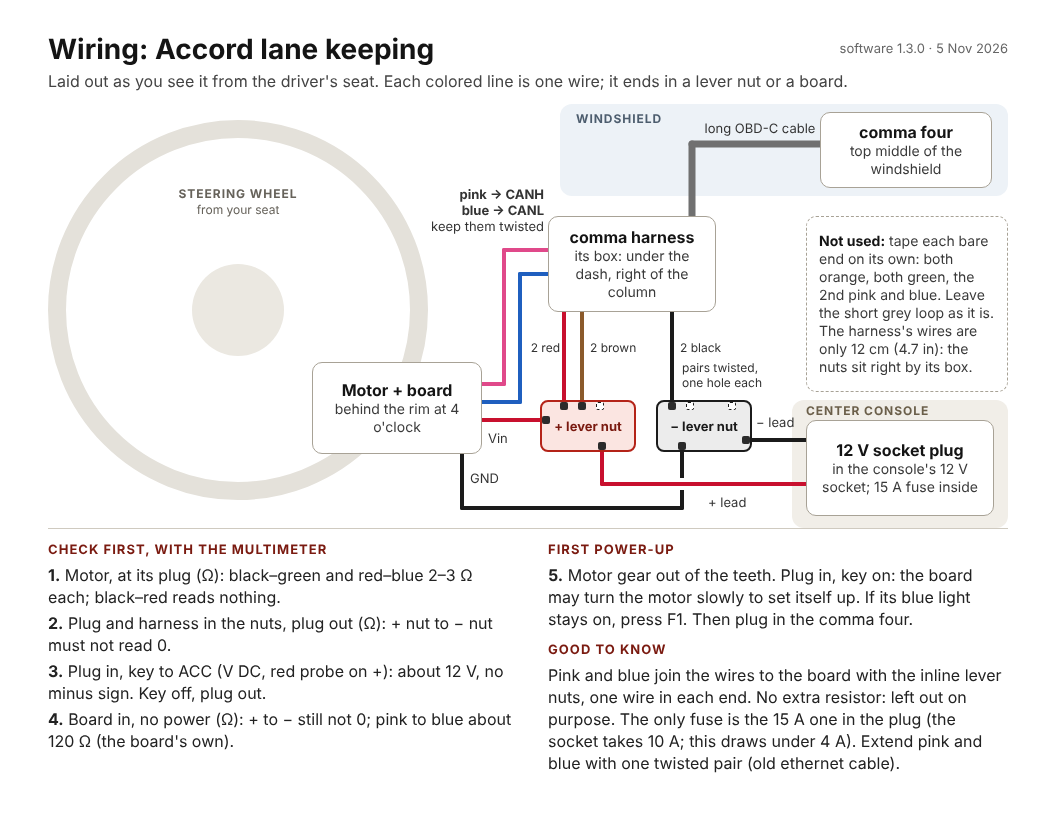
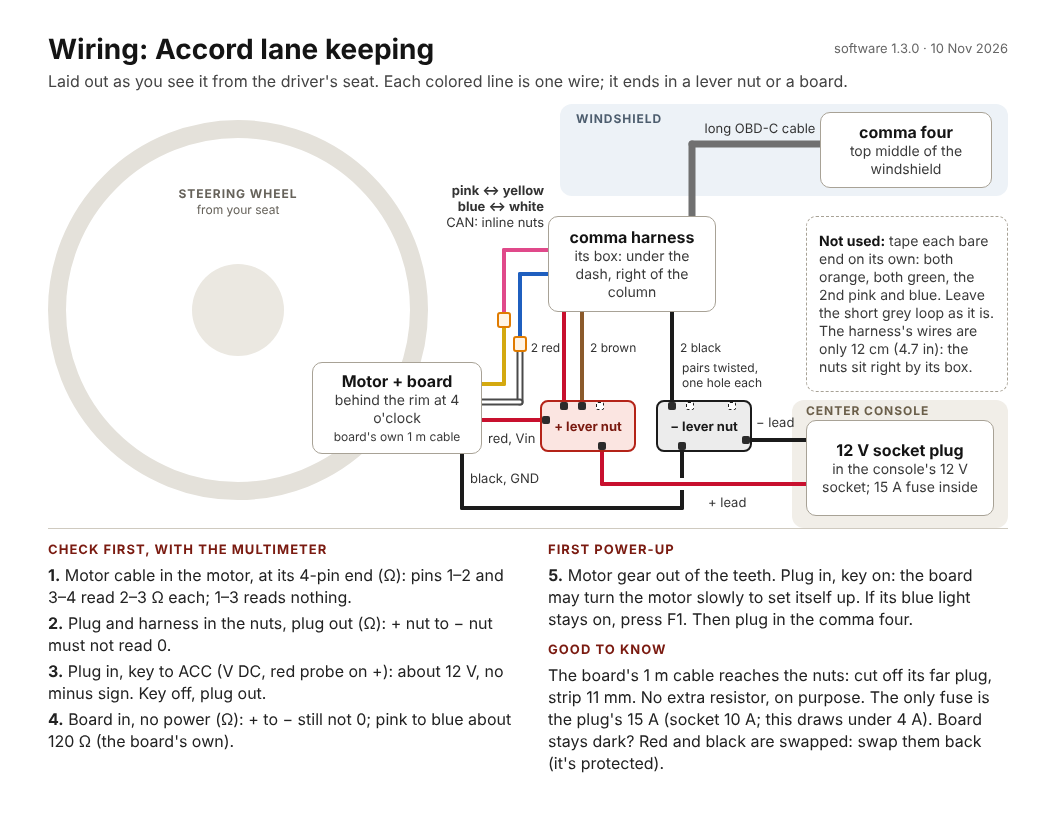
Board plugs and motor socket in the CAD; wiring with the board's own cable; README status and steps
All 8391 checks pass with the motor's plug along the column and the board's
plugs in. Wiring page v8. README: status, to-do, board onto the motor, bench
power-up.

Claude-Session: https://claude.ai/code/session_01WuqK7i55vEcsFg9coyXLyu

diff --git a/hardware/wiring/wiring-page-source.dc.html b/hardware/wiring/wiring-page-source.dc.html
@@ -25,16 +25,20 @@ a{color:#1f5fbf}a:hover{color:#163f80}
 <svg width="8" height="94" viewBox="0 0 8 94" preserveAspectRatio="none" style="position: absolute; left: 560px; top: 312px; width: 8px; height: 94px; overflow: visible; fill: none; stroke: #c8102e; stroke-width: 4; stroke-linecap: round; stroke-linejoin: round" aria-hidden="true"><path d="M 4 0 L 4 94"></path></svg>
 <svg width="8" height="94" viewBox="0 0 8 94" preserveAspectRatio="none" style="position: absolute; left: 578px; top: 312px; width: 8px; height: 94px; overflow: visible; fill: none; stroke: #8b5a2b; stroke-width: 4; stroke-linecap: round; stroke-linejoin: round" aria-hidden="true"><path d="M 4 0 L 4 94"></path></svg>
 <svg width="8" height="94" viewBox="0 0 8 94" preserveAspectRatio="none" style="position: absolute; left: 668px; top: 312px; width: 8px; height: 94px; overflow: visible; fill: none; stroke: #1b1b1b; stroke-width: 4; stroke-linecap: round; stroke-linejoin: round" aria-hidden="true"><path d="M 4 0 L 4 94"></path></svg>
-<svg width="8" height="134" viewBox="0 0 8 134" preserveAspectRatio="none" style="position: absolute; left: 500px; top: 250px; width: 8px; height: 134px; overflow: visible; fill: none; stroke: #e0498a; stroke-width: 4; stroke-linecap: round; stroke-linejoin: round" aria-hidden="true"><path d="M 4 0 L 4 134"></path></svg>
-<svg width="8" height="128" viewBox="0 0 8 128" preserveAspectRatio="none" style="position: absolute; left: 516px; top: 274px; width: 8px; height: 128px; overflow: visible; fill: none; stroke: #1f5fbf; stroke-width: 4; stroke-linecap: round; stroke-linejoin: round" aria-hidden="true"><path d="M 4 0 L 4 128"></path></svg>
+<svg width="8" height="64" viewBox="0 0 8 64" preserveAspectRatio="none" style="position: absolute; left: 500px; top: 250px; width: 8px; height: 64px; overflow: visible; fill: none; stroke: #e0498a; stroke-width: 4; stroke-linecap: round; stroke-linejoin: round" aria-hidden="true"><path d="M 4 0 L 4 64"></path></svg>
+<svg width="8" height="58" viewBox="0 0 8 58" preserveAspectRatio="none" style="position: absolute; left: 500px; top: 326px; width: 8px; height: 58px; overflow: visible; fill: none; stroke: #d4a90f; stroke-width: 4; stroke-linecap: round; stroke-linejoin: round" aria-hidden="true"><path d="M 4 0 L 4 58"></path></svg>
+<svg width="8" height="64" viewBox="0 0 8 64" preserveAspectRatio="none" style="position: absolute; left: 516px; top: 274px; width: 8px; height: 64px; overflow: visible; fill: none; stroke: #1f5fbf; stroke-width: 4; stroke-linecap: round; stroke-linejoin: round" aria-hidden="true"><path d="M 4 0 L 4 64"></path></svg>
+<svg width="8" height="52" viewBox="0 0 8 52" preserveAspectRatio="none" style="position: absolute; left: 516px; top: 350px; width: 8px; height: 52px; overflow: visible; fill: none; stroke: #4a4a4a; stroke-width: 7; stroke-linecap: round; stroke-linejoin: round" aria-hidden="true"><path d="M 4 0 L 4 52"></path></svg>
+<svg width="8" height="52" viewBox="0 0 8 52" preserveAspectRatio="none" style="position: absolute; left: 516px; top: 350px; width: 8px; height: 52px; overflow: visible; fill: none; stroke: #ffffff; stroke-width: 3; stroke-linecap: round; stroke-linejoin: round" aria-hidden="true"><path d="M 4 0 L 4 52"></path></svg>
 <svg width="8" height="54" viewBox="0 0 8 54" preserveAspectRatio="none" style="position: absolute; left: 458px; top: 454px; width: 8px; height: 54px; overflow: visible; fill: none; stroke: #1b1b1b; stroke-width: 4; stroke-linecap: round; stroke-linejoin: round" aria-hidden="true"><path d="M 4 0 L 4 54"></path></svg>
 <svg width="8" height="62" viewBox="0 0 8 62" preserveAspectRatio="none" style="position: absolute; left: 678px; top: 446px; width: 8px; height: 62px; overflow: visible; fill: none; stroke: #1b1b1b; stroke-width: 4; stroke-linecap: round; stroke-linejoin: round" aria-hidden="true"><path d="M 4 0 L 4 62"></path></svg>
 <svg width="8" height="38" viewBox="0 0 8 38" preserveAspectRatio="none" style="position: absolute; left: 598px; top: 446px; width: 8px; height: 38px; overflow: visible; fill: none; stroke: #c8102e; stroke-width: 4; stroke-linecap: round; stroke-linejoin: round" aria-hidden="true"><path d="M 4 0 L 4 38"></path></svg>
 <svg width="8" height="72" viewBox="0 0 8 72" preserveAspectRatio="none" style="position: absolute; left: 688px; top: 144px; width: 8px; height: 72px; overflow: visible; fill: none; stroke: #707070; stroke-width: 7; stroke-linecap: round; stroke-linejoin: round" aria-hidden="true"><path d="M 4 0 L 4 72"></path></svg>
 <svg width="44" height="8" viewBox="0 0 44 8" preserveAspectRatio="none" style="position: absolute; left: 504px; top: 246px; width: 44px; height: 8px; overflow: visible; fill: none; stroke: #e0498a; stroke-width: 4; stroke-linecap: round; stroke-linejoin: round" aria-hidden="true"><path d="M 0 4 L 44 4"></path></svg>
-<svg width="22" height="8" viewBox="0 0 22 8" preserveAspectRatio="none" style="position: absolute; left: 482px; top: 380px; width: 22px; height: 8px; overflow: visible; fill: none; stroke: #e0498a; stroke-width: 4; stroke-linecap: round; stroke-linejoin: round" aria-hidden="true"><path d="M 0 4 L 22 4"></path></svg>
+<svg width="22" height="8" viewBox="0 0 22 8" preserveAspectRatio="none" style="position: absolute; left: 482px; top: 380px; width: 22px; height: 8px; overflow: visible; fill: none; stroke: #d4a90f; stroke-width: 4; stroke-linecap: round; stroke-linejoin: round" aria-hidden="true"><path d="M 0 4 L 22 4"></path></svg>
 <svg width="28" height="8" viewBox="0 0 28 8" preserveAspectRatio="none" style="position: absolute; left: 520px; top: 270px; width: 28px; height: 8px; overflow: visible; fill: none; stroke: #1f5fbf; stroke-width: 4; stroke-linecap: round; stroke-linejoin: round" aria-hidden="true"><path d="M 0 4 L 28 4"></path></svg>
-<svg width="38" height="8" viewBox="0 0 38 8" preserveAspectRatio="none" style="position: absolute; left: 482px; top: 398px; width: 38px; height: 8px; overflow: visible; fill: none; stroke: #1f5fbf; stroke-width: 4; stroke-linecap: round; stroke-linejoin: round" aria-hidden="true"><path d="M 0 4 L 38 4"></path></svg>
+<svg width="38" height="8" viewBox="0 0 38 8" preserveAspectRatio="none" style="position: absolute; left: 482px; top: 398px; width: 38px; height: 8px; overflow: visible; fill: none; stroke: #4a4a4a; stroke-width: 7; stroke-linecap: round; stroke-linejoin: round" aria-hidden="true"><path d="M 0 4 L 38 4"></path></svg>
+<svg width="38" height="8" viewBox="0 0 38 8" preserveAspectRatio="none" style="position: absolute; left: 482px; top: 398px; width: 38px; height: 8px; overflow: visible; fill: none; stroke: #ffffff; stroke-width: 3; stroke-linecap: round; stroke-linejoin: round" aria-hidden="true"><path d="M 0 4 L 38 4"></path></svg>
 <svg width="64" height="8" viewBox="0 0 64 8" preserveAspectRatio="none" style="position: absolute; left: 482px; top: 416px; width: 64px; height: 8px; overflow: visible; fill: none; stroke: #c8102e; stroke-width: 4; stroke-linecap: round; stroke-linejoin: round" aria-hidden="true"><path d="M 0 4 L 64 4"></path></svg>
 <svg width="220" height="8" viewBox="0 0 220 8" preserveAspectRatio="none" style="position: absolute; left: 462px; top: 504px; width: 220px; height: 8px; overflow: visible; fill: none; stroke: #1b1b1b; stroke-width: 4; stroke-linecap: round; stroke-linejoin: round" aria-hidden="true"><path d="M 0 4 L 220 4"></path></svg>
 <svg width="60" height="8" viewBox="0 0 60 8" preserveAspectRatio="none" style="position: absolute; left: 746px; top: 436px; width: 60px; height: 8px; overflow: visible; fill: none; stroke: #1b1b1b; stroke-width: 4; stroke-linecap: round; stroke-linejoin: round" aria-hidden="true"><path d="M 0 4 L 60 4"></path></svg>
@@ -45,11 +49,13 @@ a{color:#1f5fbf}a:hover{color:#163f80}
 <div style="position: absolute; left: 820px; top: 112px; width: 172px; height: 76px; box-sizing: border-box; padding: 10px; display: flex; align-items: center; justify-content: center; text-align: center; background: #ffffff; border: 1.5px solid #a8a296; border-radius: 10px; font-size: 14px; line-height: 18px; color: #3a3a3a"><span><b style="font-size: 16px; line-height: 20px; color: #141414">comma four</b><br>top middle of the windshield</span></div>
 <div style="position: absolute; left: 548px; top: 216px; width: 168px; height: 96px; box-sizing: border-box; padding: 10px; display: flex; align-items: center; justify-content: center; text-align: center; background: #ffffff; border: 1.5px solid #a8a296; border-radius: 10px; font-size: 14px; line-height: 18px; color: #3a3a3a"><span><b style="font-size: 16px; line-height: 20px; color: #141414">comma harness</b><br>its box: under the dash, right of the column</span></div>
 <div style="position: absolute; left: 806px; top: 216px; width: 202px; height: 176px; box-sizing: border-box; padding: 10px 12px; display: flex; align-items: center; justify-content: flex-start; text-align: left; background: #ffffff; border: 1.5px dashed #a8a296; border-radius: 10px; font-size: 14px; line-height: 18px; color: #3a3a3a"><span><b style="color: #141414">Not used:</b> tape each bare end on its own: both orange, both green, the 2nd pink and blue. Leave the short grey loop as it is. The harness's wires are only 12&nbsp;cm (4.7&nbsp;in): the nuts sit right by its box.</span></div>
-<div style="position: absolute; left: 312px; top: 362px; width: 170px; height: 92px; box-sizing: border-box; padding: 10px; display: flex; align-items: center; justify-content: center; text-align: center; background: #ffffff; border: 1.5px solid #a8a296; border-radius: 10px; font-size: 14px; line-height: 18px; color: #3a3a3a"><span><b style="font-size: 16px; line-height: 20px; color: #141414">Motor + board</b><br>behind the rim at 4 o'clock</span></div>
+<div style="position: absolute; left: 312px; top: 362px; width: 170px; height: 92px; box-sizing: border-box; padding: 10px; display: flex; align-items: center; justify-content: center; text-align: center; background: #ffffff; border: 1.5px solid #a8a296; border-radius: 10px; font-size: 14px; line-height: 18px; color: #3a3a3a"><span><b style="font-size: 16px; line-height: 20px; color: #141414">Motor + board</b><br>behind the rim at 4 o'clock<br><span style="font-size: 12px; line-height: 15px">board's own 1 m cable</span></span></div>
 <div style="position: absolute; left: 806px; top: 420px; width: 188px; height: 96px; box-sizing: border-box; padding: 10px; display: flex; align-items: center; justify-content: center; text-align: center; background: #ffffff; border: 1.5px solid #a8a296; border-radius: 10px; font-size: 14px; line-height: 18px; color: #3a3a3a"><span><b style="font-size: 16px; line-height: 20px; color: #141414">12&nbsp;V socket plug</b><br>in the console's 12&nbsp;V socket; 15&nbsp;A fuse inside</span></div>
 <div style="position: absolute; left: 540px; top: 400px; width: 96px; height: 52px; box-sizing: border-box; padding: 4px; display: flex; align-items: center; justify-content: center; text-align: center; background: #fbe5e1; border: 2px solid #b42318; border-radius: 8px; font-size: 13px; line-height: 16px; color: #7a1a10"><b>+ lever nut</b></div>
 <div style="position: absolute; left: 656px; top: 400px; width: 96px; height: 52px; box-sizing: border-box; padding: 4px; display: flex; align-items: center; justify-content: center; text-align: center; background: #ececec; border: 2px solid #1b1b1b; border-radius: 8px; font-size: 13px; line-height: 16px; color: #1b1b1b"><b>− lever nut</b></div>
 
+<div style="position: absolute; left: 497px; top: 312px; width: 14px; height: 16px; box-sizing: border-box; background: #fff4e5; border: 2px solid #e07b00; border-radius: 3px"></div>
+<div style="position: absolute; left: 513px; top: 336px; width: 14px; height: 16px; box-sizing: border-box; background: #fff4e5; border: 2px solid #e07b00; border-radius: 3px"></div>
 <div style="position: absolute; left: 560px; top: 402px; width: 8px; height: 8px; background: #2b2b2b; border-radius: 2px"></div>
 <div style="position: absolute; left: 578px; top: 402px; width: 8px; height: 8px; background: #2b2b2b; border-radius: 2px"></div>
 <div style="position: absolute; left: 596px; top: 402px; width: 8px; height: 8px; box-sizing: border-box; background: #ffffff; border: 1.5px dashed #1b1b1b; border-radius: 2px"></div>
@@ -63,19 +69,19 @@ a{color:#1f5fbf}a:hover{color:#163f80}
 
 <div style="position: absolute; left: 48px; top: 32px; font-size: 28px; line-height: 34px; font-weight: 700; color: #141414">Wiring: Accord lane keeping</div>
 <div style="position: absolute; left: 48px; top: 70px; width: 940px; font-size: 16px; line-height: 22px; color: #444444">Laid out as you see it from the driver's seat. Each colored line is one wire; it ends in a lever nut or a board.</div>
-<div style="position: absolute; left: 808px; top: 40px; width: 200px; text-align: right; font-size: 13px; line-height: 16px; color: #666666">software 1.3.0 · 5 Nov 2026</div>
+<div style="position: absolute; left: 808px; top: 40px; width: 200px; text-align: right; font-size: 13px; line-height: 16px; color: #666666">software 1.3.0 · 10 Nov 2026</div>
 <div style="position: absolute; left: 576px; top: 112px; font-size: 12px; line-height: 14px; font-weight: 700; letter-spacing: 0.08em; color: #4d5d6e">WINDSHIELD</div>
 <div style="position: absolute; left: 806px; top: 404px; font-size: 12px; line-height: 14px; font-weight: 700; letter-spacing: 0.08em; color: #6b5f4a">CENTER CONSOLE</div>
 <div style="position: absolute; left: 158px; top: 186px; width: 160px; text-align: center; font-size: 12px; line-height: 16px; color: #66625a"><b style="letter-spacing: 0.08em">STEERING WHEEL</b><br>from your seat</div>
 
 <div style="position: absolute; left: 704px; top: 120px; width: 112px; text-align: center; font-size: 13px; line-height: 16px; color: #333333">long OBD-C cable</div>
-<div style="position: absolute; left: 424px; top: 186px; width: 120px; text-align: right; font-size: 13px; line-height: 16px; color: #333333"><b>pink → CANH</b><br><b>blue → CANL</b><br>keep them twisted</div>
+<div style="position: absolute; left: 404px; top: 182px; width: 140px; text-align: right; font-size: 13px; line-height: 16px; color: #333333"><b>pink ↔ yellow</b><br><b>blue ↔ white</b><br>CAN: inline nuts</div>
 <div style="position: absolute; left: 524px; top: 340px; width: 36px; text-align: right; font-size: 12px; line-height: 15px; color: #333333">2 red</div>
 <div style="position: absolute; left: 590px; top: 340px; width: 72px; font-size: 12px; line-height: 15px; color: #333333">2 brown</div>
 <div style="position: absolute; left: 680px; top: 340px; width: 60px; font-size: 12px; line-height: 15px; color: #333333">2 black</div>
 <div style="position: absolute; left: 682px; top: 360px; width: 96px; font-size: 12px; line-height: 15px; color: #333333">pairs twisted,<br>one hole each</div>
-<div style="position: absolute; left: 488px; top: 430px; width: 40px; font-size: 13px; line-height: 16px; color: #333333">Vin</div>
-<div style="position: absolute; left: 470px; top: 470px; width: 40px; font-size: 13px; line-height: 16px; color: #333333">GND</div>
+<div style="position: absolute; left: 488px; top: 430px; width: 56px; font-size: 13px; line-height: 16px; color: #333333">red, Vin</div>
+<div style="position: absolute; left: 470px; top: 470px; width: 84px; font-size: 13px; line-height: 16px; color: #333333">black, GND</div>
 <div style="position: absolute; left: 708px; top: 494px; width: 60px; font-size: 13px; line-height: 16px; color: #333333">+ lead</div>
 <div style="position: absolute; left: 756px; top: 414px; width: 48px; font-size: 13px; line-height: 16px; color: #333333">− lead</div>
 
@@ -83,7 +89,7 @@ a{color:#1f5fbf}a:hover{color:#163f80}
 
 <div style="position: absolute; left: 48px; top: 540px; width: 464px; display: flex; flex-direction: column; gap: 4px; font-size: 16px; line-height: 22px; color: #222222">
 <div style="font-size: 13px; line-height: 18px; font-weight: 700; letter-spacing: 0.08em; color: #7a1a10; margin-bottom: 2px">CHECK FIRST, WITH THE MULTIMETER</div>
-<div><b>1.</b> Motor, at its plug (Ω): black–green and red–blue 2–3&nbsp;Ω each; black–red reads nothing.</div>
+<div><b>1.</b> Motor cable in the motor, at its 4-pin end (Ω): pins 1–2 and 3–4 read 2–3&nbsp;Ω each; 1–3 reads nothing.</div>
 <div><b>2.</b> Plug and harness in the nuts, plug out (Ω): + nut to − nut must not read 0.</div>
 <div><b>3.</b> Plug in, key to ACC (V DC, red probe on +): about 12&nbsp;V, no minus sign. Key off, plug out.</div>
 <div><b>4.</b> Board in, no power (Ω): + to − still not 0; pink to blue about 120&nbsp;Ω (the board's own).</div>
@@ -93,7 +99,7 @@ a{color:#1f5fbf}a:hover{color:#163f80}
 <div style="font-size: 13px; line-height: 18px; font-weight: 700; letter-spacing: 0.08em; color: #7a1a10; margin-bottom: 2px">FIRST POWER-UP</div>
 <div><b>5.</b> Motor gear out of the teeth. Plug in, key on: the board may turn the motor slowly to set itself up. If its blue light stays on, press F1. Then plug in the comma four.</div>
 <div style="font-size: 13px; line-height: 18px; font-weight: 700; letter-spacing: 0.08em; color: #7a1a10; margin-top: 6px; margin-bottom: 2px">GOOD TO KNOW</div>
-<div>Pink and blue join the wires to the board with the inline lever nuts, one wire in each end. No extra resistor: left out on purpose. The only fuse is the 15&nbsp;A one in the plug (the socket takes 10&nbsp;A; this draws under 4&nbsp;A). Extend pink and blue with one twisted pair (old ethernet cable).</div>
+<div>The board's 1&nbsp;m cable reaches the nuts: cut off its far plug, strip 11&nbsp;mm. No extra resistor, on purpose. The only fuse is the plug's 15&nbsp;A (socket 10&nbsp;A; this draws under 4&nbsp;A). Board stays dark? Red and black are swapped: swap them back (it's protected).</div>
 </div>
 
 </div>

diff --git a/hardware/cad/rightarm.py b/hardware/cad/rightarm.py
@@ -325,12 +325,18 @@ def carrier(dz: float = 0.0) -> Manifold:
 def motor_and_gear(dz: float = 0.0) -> dict:
   """The motor's body, board and the side-slide gear: carrier frame (z out along the shaft from the face) -> here
   the shaft points in: carrier z -> -U, carrier y -> V, carrier x -> along the column. dz as for carrier()."""
-  motor = box(-H, H, -H, H, -NEMA_LEN, 0.0) + cyl(11.0, 0.0, 2.0)
+  # the motor's own 6-pin socket (motor card: 16 mm wide, 6.5 mm out, the back 11 mm of the body) and its plug's
+  # wires bending away, 12 mm more: facing along the column (+x here; -x passes too). Facing -V it hits the carrier.
+  motor = (box(-H, H, -H, H, -NEMA_LEN, 0.0) + cyl(11.0, 0.0, 2.0)
+           + box(21.15, 21.15 + 6.5 + 12.0, -8.0, 8.0, -NEMA_LEN, -NEMA_LEN + 11.0))
   # the StepperServoCAN board as it came (9 Nov): 56.0 x 43.3 mm (its maker's PCB file), centred on the shaft along its
-  # long side and 22.9 / 20.4 either side across it. Mounted with the long side around the wheel (along V): along
-  # the column it hits the arm with the carrier slid 15 mm or more down. Its case's height isn't measured; 16 mm
-  # assumed (11 and 16 both pass). Plugs and cables leaving its sides are not in the model.
-  board = box(-22.9, 20.4, -28.0, 28.0, -NEMA_LEN - 16.0, -NEMA_LEN)
+  # long side and 20.4 / 22.9 either side across it. Mounted with the long side around the wheel (along V): along
+  # the column it hits the arm with the carrier slid 15 mm or more down. Its case is 8 mm high (Retropilot); 16 mm
+  # kept here. Turned so its Motor socket is on the motor plug's side (+x): that plug and its wires reach 20 mm past
+  # the board's edge; the Car socket's plug runs off its +V end, to 38 mm out (both ways round pass, 10 Nov).
+  board = (box(-20.4, 22.9, -28.0, 28.0, -NEMA_LEN - 16.0, -NEMA_LEN)
+           + box(22.9, 42.9, -7.7, 5.3, -NEMA_LEN - 7.5, -NEMA_LEN - 1.0)
+           + box(-12.3, 0.7, 15.0, 38.0, -NEMA_LEN - 7.5, -NEMA_LEN - 1.0))
   c = R_FACE_OUT * U
   mat = [[0.0, V[0], -U[0], float(c[0])], [0.0, V[1], -U[1], float(c[1])], [1.0, 0.0, 0.0, Z_AXIS + dz]]
   return {"motor": motor.transform(mat), "board": board.transform(mat), "gear": S.side_gear().transform(mat)}

diff --git a/README.md b/README.md
@@ -14,6 +14,59 @@ teeth, lane keeping off. There is no switch.
 The build guide (https://claude.ai/code/artifact/0b3ce053-a508-4e38-92c4-faf3a50fd2b3) still describes the earlier
 lever mounts; for this build, this README and `CHANGELOG.md` (1.3.0) are current.
 
+## Where it stands (10 Nov)
+
+- Software: done, v1.3.0 on GitHub. Tested in simulation only.
+- Design files: recovered, re-run, identical to your print files, on GitHub (`hardware/cad`).
+- In hand: the motor, the board (magnet, two long bolts, its 1 m power/CAN cable), the 2 Nov Amazon order.
+  Ordered 10 Nov: the motor cable and the thermal paste.
+- Blocker: the frame plate. v4 didn't fit; the new one waits on the shoelace test.
+
+## To do, in order
+
+1. Shoelace test: a lace round the column through the gap above the tilt lever's tab. It must miss the key, the
+   stalks and the wheel, and the lever must still lock. Tell me the loop's length.
+2. Try the new paper template on the car (I send it after step 1).
+3. Print the plastic fit-test plate from the paper shape that fits; try it on the car.
+4. Plate 14, the teeth fit sample, if not done: push it onto the grip; it should go on snug.
+5. When the motor cable comes: **Board onto the motor** and **Bench power-up**, below.
+6. Print the full set once the plate fits; then steps 1 to 4 under **Then**.
+7. 3 Dec: order the comma four and the long OBD-C cable ($1,019).
+8. Wiring with the comma harness (step 5 under **Then**), checked with the meter.
+9. Install v1.3.0, car setup parts 1 and 2, the 5 kg push test, a parking lot, a quiet road.
+
+## Board onto the motor
+
+1. **Check the motor cable:** its 6-pin end in the motor; on the meter (ohm), at its 4-pin end, pins 1-2 and 3-4
+   read 2 to 3 ohm each and 1-3 reads nothing. If 1-2 reads nothing but 1-3 does, the middle two wires are swapped.
+2. **Which way round:** the board's long side runs along the motor's side that has the plug, with the board's
+   Motor socket on that side. On the carrier the motor's plug must face along the column (toward the dash or toward
+   you, either works); one of the two ways round the wheel hits the carrier. Checked in CAD with the plugs in (10 Nov).
+3. **Bolts:** take out the two motor screws on the diagonal that lines up with the board's two brass corner holes.
+   Hold one next to a long bolt from the kit: the bolt should be about 8 mm longer (the board's height). If it is
+   more than that, stop and tell me: it would reach into the holes the carrier's screws use.
+4. **Sticker:** cut out the middle of the back sticker over the dip (a 10 mm circle). Wipe the shaft's end with
+   rubbing alcohol.
+5. **Gap check:** set the magnet in the dip (it snaps onto the shaft). Lay a ruler across the back: the magnet must
+   not touch it. The maker designed for the magnet's top about 1 mm below the board. If it touches, stop, tell me.
+6. **Glue:** lift the magnet out, a small drop of super glue on the shaft's end, then the magnet back in through the
+   tan jig's hole so it sits centred. Let it set; take the jig off. Which way the magnet is turned doesn't matter.
+   The maker's video shows it: https://youtu.be/mQyXR3hITy0?t=41
+7. **Paste:** a thin layer on the board's underside, in the dashed box marked "Apply thermal paste".
+8. **Board on:** the two long bolts through its brass corner holes into the two empty motor holes. Snug, not hard
+   (the case is plastic). It must sit flat: if it rocks on the other two screw heads, stop, tell me.
+9. **Plug in** the motor cable: 6-pin in the motor, 4-pin in the board's Motor socket.
+
+## Bench power-up (no comma device needed)
+
+1. Cut one plug off the board's 1 m cable; strip 11 mm. Red into the + lever nut, black into the -, with the 12 V
+   plug's + and -. Tape the yellow and white ends, each on its own. The other plug into the board's Car socket.
+2. Wiring page checks 2 and 3 (`hardware/wiring/wiring-page.png`).
+3. Motor loose on the seat, nothing touching the gear. Key on, plug in. The board twitches the motor; when its blue
+   light stays on, press F1: the motor turns slowly while it calibrates. Red light blinking once a second: it can't
+   read the magnet; unplug and tell me. Red with a short break each second: under 8 V.
+4. Board stays dark: red and black are swapped; swap them (the board is protected against that).
+
 ## Buy
 
 Three orders: Amazon (one cart, returns), the comma device from comma, and the motor controller from the Retropilot
@@ -23,18 +76,16 @@ day it is delivered, and it comes in about 3 business days (comma's page on 2 No
 UPS 2nd Day Air in the US, someone has to sign). Its harness is needed for the wiring.
 Prices were read on the shop pages on 2026-11-01. The Amazon items are on the wishlist "Accord lane keeping".
 
-Bought (2026-11-01): the motor (STEPPERONLINE 17HS15-1504S-X1, 45 Ncm at 1.5 A, 40 mm), the StepperServoCAN board from
-Retropilot, the cover screws (Mellewell #8 x 1-1/2 stainless, 100, $9.99). Ordered (2026-11-02): everything on the
-Amazon list below. Owned: fender washers, zip ties, filament, the two M5 nuts. Still to buy: the comma device and its
-cable (when: above).
+Bought (2026-11-01): the motor (STEPPERONLINE 17HS15-1504S-X1, 45 Ncm at 1.5 A, 40 mm; came 6 Nov), the
+StepperServoCAN board from Retropilot (came 9 Nov), the cover screws (Mellewell #8 x 1-1/2 stainless, 100, $9.99).
+Ordered (2026-11-02): everything on the Amazon list below. Ordered (2026-11-10): the motor cable (TIEXYE 4 x 500 mm,
+XH 2.54 4-pin to PH 2.0 6-pin, B0FD8PPNJY, $7.39) and ARCTIC MX-4 thermal paste (B07L9BDY3T, $4.99). Owned: fender
+washers, zip ties, filament, the two M5 nuts. Still to buy: the comma device and its cable (when: above); a hose
+clamp (size from the shoelace test); two #8 x 2 in stainless pan head screws, once the plate fits.
 
 Nothing new for the fit print (3 Nov: the arm v6 and the frame plate v5): each of its two slides takes one of the M5
 wing bolts, one of the M5 nuts and one of your fender washers (3/4 to 1 in across), and the two cover screws take a
 fender washer each: four fender washers in all.
-
-On the way (checked 2 Nov): the motor, USPS 9214490416422007317521 (label made 1 Nov in Perth Amboy, NJ; USPS gives
-a delivery date once it has the package). A parcel from Portugal, LA137988293PT, most likely the board (Portugal's
-post, CTT; accepted 2 Nov; the tracking site's estimate is 13 to 19 Nov at your post office).
 
 | What | Which | Where | Price |
 |---|---|---|---|
@@ -42,7 +93,7 @@ post, CTT; accepted 2 Nov; the tracking site's estimate is 13 to 19 Nov at your 
 | OBD-C cable | the **long** one, 9.5 ft | [comma](https://comma.ai/shop/obd-c-cable) | $20 |
 | power plug | LANMINGLEL 12 V socket plug, 14 AWG, 2 m of cable with bare ends, 15 A fuse built in | [Amazon](https://www.amazon.com/dp/B0GXFML4TH) | $11.99 |
 | connectors | WAGO 221 lever nuts, 12-piece box (three each of the 2-, 3- and 5-way and the inline; two 5-way are used) | Amazon wishlist | $12.45 |
-| wire | BNTECHGO 20 AWG silicone wire, red and black, 10 ft each | Amazon wishlist | $8.48 |
+| wire | BNTECHGO 20 AWG silicone wire, red and black, 10 ft each (not needed now: the board's own cable reaches the nuts) | Amazon wishlist | $8.48 |
 | motor screws | MoyoCodi M3 x 10 button head screws, stainless, 50 with the hex key (four hold the motor to its carrier; exactly 10 mm long) | Amazon wishlist | $5.99 |
 | set screws | JT Custom M3 x 10 set screws, 10, with the hex key (one for the gear) | Amazon wishlist | $6.99 |
 | wing bolts | AOESIN M5 x 20 stainless wing bolts, 20 (two are used) | Amazon wishlist | $9.98 |
@@ -54,15 +105,17 @@ $1,180 with what was bought.
 The two M5 nuts come from your own M5 kit: plain hex nuts (8 mm across, 4 mm thick), not nylon lock nuts,
 which are too tall for the nut slots.
 
-No fuses to buy: the plug has its own 15 A fuse. No relay or switch: nothing switches. Recommended, not on the list:
-a pack of 120 ohm resistors (about $5) for one across the pink and blue wires at the harness end; the board has one
-at its end, and a CAN pair wants one at each end (it will very likely work without it over 1 to 2 m; the multimeter
-check tells). The motor's own 1 m cable reaches the board.
+No fuses to buy: the plug has its own 15 A fuse. No relay or switch: nothing switches. No extra 120 ohm resistor:
+left out by your choice (7 Nov); the board has its own. The motor's own cable ends in a 0.1 in plug that doesn't
+latch in the board's socket, so the TIEXYE cable replaces it.
 
 Tools, if you don't have them: a luggage scale (about $12), hex keys 1.5 to 10 mm (about $9), a wire stripper
 (about $12), a Phillips screwdriver, a tape measure, super glue, your phone.
 
 ## Print
+
+**On hold (10 Nov):** the frame plate v5 in plate 13 is from before the v4 plate failed to fit (5 Nov); plate 13
+waits for the new plate. Plate 14 (the teeth fit sample) can be printed now.
 
 First, the fit sample: **`plate-14-teeth-fit-sample.3mf`**, a 23 mm slice of the teeth's channel at the new width
 (1 mm wider than the v2 teeth you tried; marked 7 on the outside), on economy settings (2 walls, 15% infill), a few
@@ -123,9 +176,10 @@ claude.ai at https://claude.ai/artifact/2frUtDazPaeNmDnm2MzN2d).
    is about 4 mm further in than drawn). Then back the motor down 1 mm, one tick on the carrier's bar, read where the
    bar comes out of the tower's top, and tighten the motor's wing bolt. Turn the steering wheel by hand across the
    teeth: it should go smoothly. That tick is your "on" mark from now on.
-5. **Wire it** (`hardware/report/wiring-right-arm.png`): the plug's + and - into two lever nuts; the harness's two
-   red and brown, and the board's Vin, on +; the harness's two black and the board's GND on -; pink to the board's
-   CANH and blue to CANL. Check it with the multimeter before plugging in the comma device or the board.
+5. **Wire it** (`hardware/wiring/wiring-page.png`): the plug's + and - into two lever nuts; the harness's two
+   red and two brown (each pair twisted, one hole) and the board's red on +; the harness's two black and the
+   board's black on -; pink to the board's yellow (CAN H) and blue to its white (CAN L), an inline lever nut
+   each. Check it with the multimeter before plugging in the comma device or the board.
 6. **First power-up with the gear out of the teeth:** a new board may calibrate itself, turning the motor slowly.
 7. **Install the software:** it is on your GitHub copies, `github.com/djjoeg/openpilot` and `github.com/djjoeg/opendbc`
    (every version, v1.0.0 to v1.3.0, put there 2 Nov). On the comma device, at setup, enter

diff --git a/CHANGELOG.md b/CHANGELOG.md
@@ -48,6 +48,19 @@ opendbc from your copy, at that branch's commit (checked on GitHub). Install wit
 
 ### Printed parts
 
+Changed on 10 Nov (no printed part changed):
+- **The board's plugs and the motor's own plug are in the model now** (`rightarm.py`): the motor's 6-pin socket and
+  its plug's wires (motor card: 16 mm wide, 6.5 mm out, the back 11 mm), and the board's Motor and Car plugs, 20 and
+  10 mm past its edges. All 8,391 checks pass with the motor's plug facing along the column, either way; facing one
+  way round the wheel it hits the carrier (32 checks fail). The board passes both ways round, with its Motor socket
+  on the motor plug's side.
+- **Simpler wiring:** the board's own 1 m cable reaches the lever nuts, so the 20 AWG wire and the ethernet pair are
+  not needed. Its colors, read off your unboxing photo against the board's labels: red Vin, black GND, yellow CAN H,
+  white CAN L. Red and black into the + and - nuts; pink to yellow and blue to white, an inline lever nut each.
+  The wiring page (version 8) and `hardware/wiring/wiring-page.png` show it.
+- **README:** where it stands, the to-do list, putting the board on the motor (with three stop-and-tell-me checks:
+  the bolt length, the magnet's gap, the board sitting flat) and a bench power-up that needs no comma device.
+
 Changed on 9 Nov (no printed part changed): the board came. Its maker's PCB file puts it at 56.0 x 43.3 mm, where
 the model had 46 x 46. With its long side along the column it would hit the arm when the motor is slid 15 mm or
 more down. With its long side around the wheel, all 8,391 checks pass, with a case 11 or 16 mm tall. So: **mount
